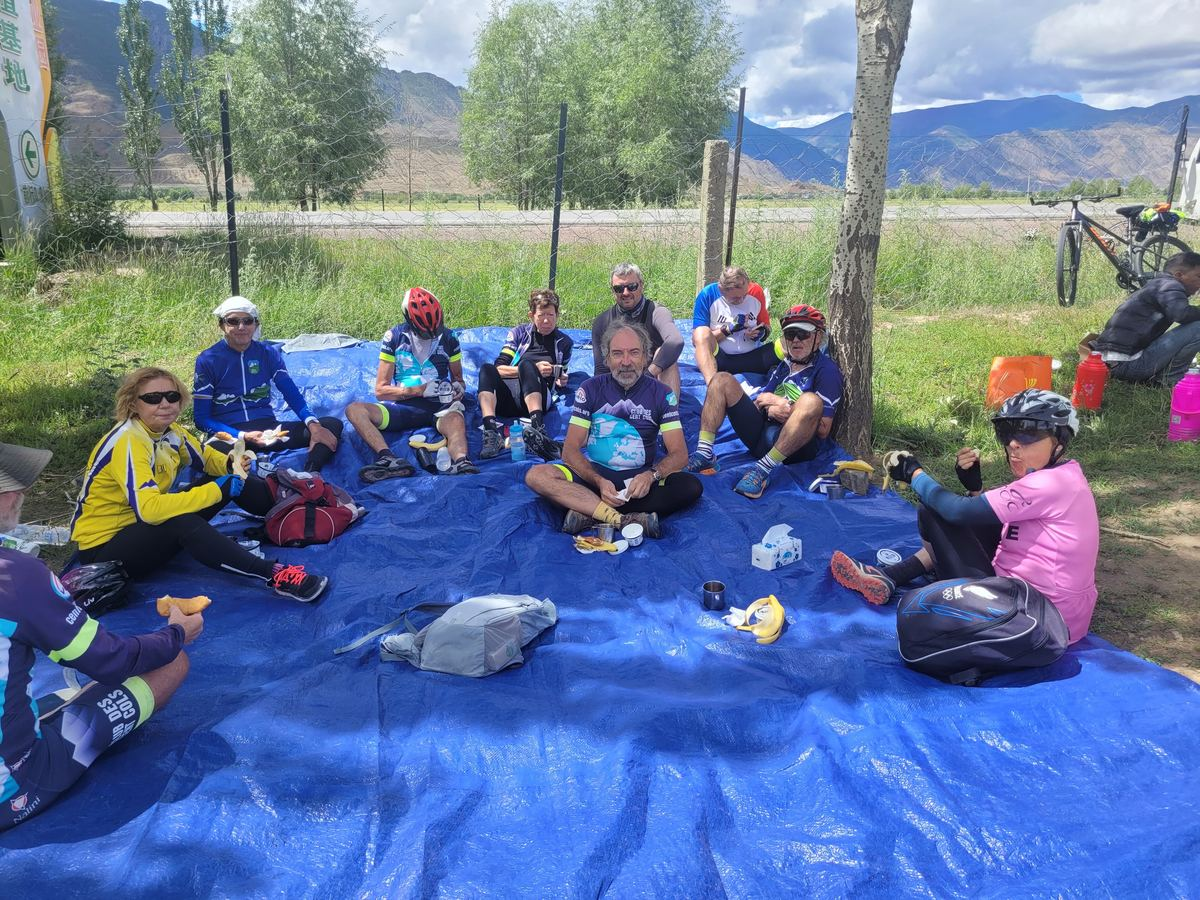
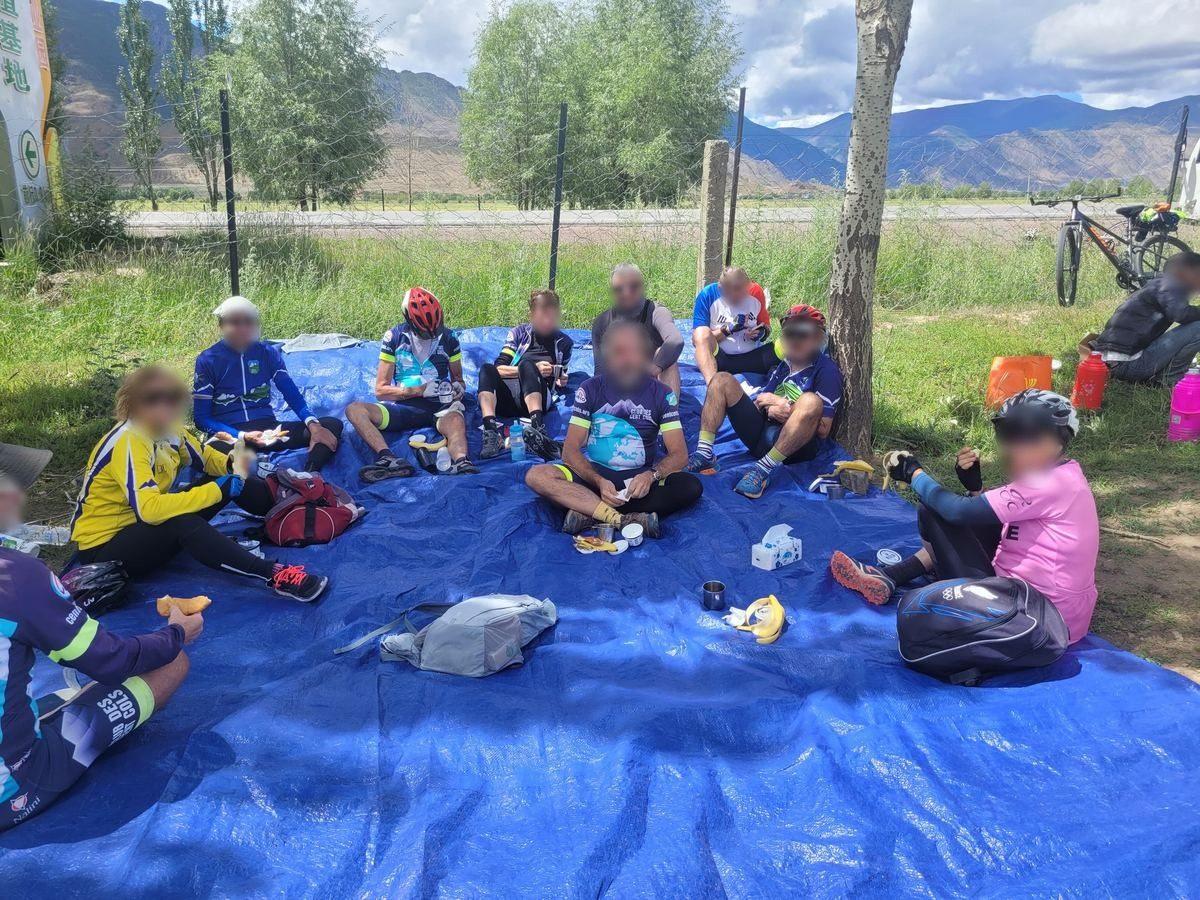
Enrichir la page avec 14 nouvelles photos, visages floutés
- 14 nouvelles photos (lac Yamdrok, Jokhang, Sera, train du Tibet,
  magasin de vélos, camps, stupa de Rongbuk), doublons écartés
- Visages reconnaissables floutés sur toutes les photos, y compris les
  anciennes (sauf le cycliste au poing levé, à la demande)
- Nouvelle galerie « Le groupe 2026 », carrousel renouvelé ; chaque
  photo n'apparaît qu'une fois sur la page

Claude-Session: https://claude.ai/code/session_015UuxWyj5spFd4m22es6sNR

diff --git a/index.html b/index.html
@@ -82,19 +82,12 @@
 <main id="top">
   <div class="gallery" id="gallery">
     <div class="gallery-track" id="galleryTrack">
-      <img fetchpriority="high" src="/images/photo-11.jpg" alt="La face nord de l&#x27;Everest depuis Rongbuk">
-      <img src="/images/photo-01.jpg" alt="Le groupe de cyclistes devant le palais du Potala, à Lhassa">
-      <img src="/images/photo-02.jpg" alt="Le groupe à vélo dans une rue de Lhassa">
-      <img src="/images/photo-03.jpg" alt="Le groupe devant un monastère de Lhassa">
-      <img src="/images/photo-04.jpg" alt="Le lac Yamdrok vu depuis le col de Khampa La">
+      <img fetchpriority="high" src="/images/photo-25.jpg" alt="Sommets enneigés au-dessus du lac Yamdrok">
+      <img src="/images/photo-27.jpg" alt="Les vélos posés au bord du lac Yamdrok">
       <img src="/images/photo-05.jpg" alt="Stupa et glacier au col de Karo La">
-      <img src="/images/photo-06.jpg" alt="Gyantse et sa forteresse perchée">
-      <img src="/images/photo-07.jpg" alt="Le monastère de Tashilhunpo, à Shigatse">
-      <img src="/images/photo-08.jpg" alt="Repas sous la tente au camp">
-      <img src="/images/photo-09.jpg" alt="Pause pique-nique du groupe sur le plateau tibétain">
-      <img src="/images/photo-10.jpg" alt="Repas dans une maison de thé tibétaine">
-      <img src="/images/photo-12.jpg" alt="Stupas et maisons anciennes de la vallée de Katmandou">
-      <img src="/images/photo-13.jpg" alt="Le stupa de Boudhanath, à Katmandou">
+      <img src="/images/photo-30.jpg" alt="La cour et les toits dorés du Jokhang, à Lhassa">
+      <img src="/images/photo-24.jpg" alt="Le lac Yamdrok et ses collines verdoyantes">
+      <img src="/images/photo-26.jpg" alt="Les rives du lac Yamdrok sous un grand ciel bleu">
     </div>
     <div class="gallery-overlay">
       <span class="cap">Région autonome du Tibet → Népal</span>
@@ -133,7 +126,7 @@
       <div class="cap section-eyebrow" style="margin-top:32px;">Points forts</div>
       <h2 class="section-title">Les temps forts du voyage</h2>
       <div class="hl-item">
-        <div class="hl-photo"><img loading="lazy" decoding="async" src="/images/photo-01.jpg" alt="Le groupe de cyclistes devant le palais du Potala, à Lhassa"></div>
+        <div class="hl-photo"><img loading="lazy" decoding="async" src="/images/photo-18.jpg" alt="Le palais du Potala, à Lhassa"></div>
         <div class="hl-body">
           <div class="hl-num">01</div>
           <h3>Lhassa et le palais du Potala</h3>
@@ -141,7 +134,7 @@
         </div>
       </div>
       <div class="hl-item">
-        <div class="hl-photo"><img loading="lazy" decoding="async" src="/images/photo-03.jpg" alt="Le groupe devant un monastère de Lhassa"></div>
+        <div class="hl-photo"><img loading="lazy" decoding="async" src="/images/photo-32.jpg" alt="Moines en assemblée au monastère de Sera"></div>
         <div class="hl-body">
           <div class="hl-num">02</div>
           <h3>Sera, Drepung et le Jokhang</h3>
@@ -149,7 +142,7 @@
         </div>
       </div>
       <div class="hl-item">
-        <div class="hl-photo"><img loading="lazy" decoding="async" src="/images/photo-05.jpg" alt="Stupa et glacier au col de Karo La"></div>
+        <div class="hl-photo"><img loading="lazy" decoding="async" src="/images/photo-21.jpg" alt="Cyclistes sous les drapeaux de prière d&#x27;un col"></div>
         <div class="hl-body">
           <div class="hl-num">03</div>
           <h3>Les cols du toit du monde</h3>
@@ -173,7 +166,7 @@
         </div>
       </div>
       <div class="hl-item">
-        <div class="hl-photo"><img loading="lazy" decoding="async" src="/images/photo-13.jpg" alt="Le stupa de Boudhanath, à Katmandou"></div>
+        <div class="hl-photo"><img loading="lazy" decoding="async" src="/images/photo-12.jpg" alt="Stupas et maisons anciennes de la vallée de Katmandou"></div>
         <div class="hl-body">
           <div class="hl-num">06</div>
           <h3>Katmandou et la vallée népalaise</h3>
@@ -183,6 +176,22 @@
       <div class="pillar-card" style="margin-top:24px;border-left:3px solid var(--red);">
         <h3>Acclimatation à l&#x27;altitude indispensable</h3>
         <p>Ce voyage commence haut et monte vite : une douzaine de jours de vélo entre 3 400 et plus de 5 200 m, avec des étapes pouvant dépasser 120 km et 1 300 m de dénivelé positif. Une bonne acclimatation est essentielle : les premiers jours (Xining, puis Lhassa) permettent une montée progressive avant les cols du plateau, et une bouteille d&#x27;oxygène de secours fait partie de l&#x27;équipement du voyage. Comme pour nos autres itinéraires en très haute altitude, nous pouvons vous aider à préparer votre acclimatation avant le départ.</p>
+      </div>
+    </div>
+  </section>
+
+  <section id="photos">
+    <div class="wrap-narrow">
+      <div class="cap section-eyebrow">En images</div>
+      <h2 class="section-title">Le groupe 2026, de Lhassa au lac Yamdrok</h2>
+      <p style="color:var(--muted);font-size:16px;max-width:60ch;margin-bottom:22px;">Quelques moments du premier voyage, en 2026 : préparation des vélos, visites de Lhassa, pauses au bord du lac Yamdrok et vie de camp.</p>
+      <div class="photo-grid">
+        <figure><img loading="lazy" decoding="async" src="/images/photo-28.jpg" alt="Un cycliste, poing levé, au col au-dessus du lac Yamdrok"><figcaption>Un cycliste, poing levé, au col au-dessus du lac Yamdrok</figcaption></figure>
+        <figure><img loading="lazy" decoding="async" src="/images/photo-01.jpg" alt="Le groupe de cyclistes devant le palais du Potala, à Lhassa"><figcaption>Le groupe de cyclistes devant le palais du Potala, à Lhassa</figcaption></figure>
+        <figure><img loading="lazy" decoding="async" src="/images/photo-37.jpg" alt="Le groupe dans la cour du palais du Potala"><figcaption>Le groupe dans la cour du palais du Potala</figcaption></figure>
+        <figure><img loading="lazy" decoding="async" src="/images/photo-03.jpg" alt="Le groupe devant un monastère de Lhassa"><figcaption>Le groupe devant un monastère de Lhassa</figcaption></figure>
+        <figure><img loading="lazy" decoding="async" src="/images/photo-36.jpg" alt="Le groupe à l&#x27;entrée du monastère de Sera"><figcaption>Le groupe à l&#x27;entrée du monastère de Sera</figcaption></figure>
+        <figure><img loading="lazy" decoding="async" src="/images/photo-17.jpg" alt="À bord du train Xining–Lhassa, face au plateau"><figcaption>À bord du train Xining–Lhassa, face au plateau</figcaption></figure>
       </div>
     </div>
   </section>
@@ -244,7 +253,7 @@
         </div>
       </div>
       <div class="day-card">
-        <div class="day-photo"><img loading="lazy" decoding="async" src="/images/photo-16.jpg" alt="Sommets enneigés du plateau tibétain vus du train"></div>
+        <div class="day-photo"><img loading="lazy" decoding="async" src="/images/photo-35.jpg" alt="Déjeuner au wagon-restaurant du train du Tibet"></div>
         <div>
           <div class="day-num">JOUR 2</div>
           <h3>Xining → Lhassa</h3>
@@ -256,7 +265,7 @@
         </div>
       </div>
       <div class="day-card">
-        <div class="day-photo"><img loading="lazy" decoding="async" src="/images/photo-17.jpg" alt="À bord du train Xining–Lhassa, face au plateau"></div>
+        <div class="day-photo"><img loading="lazy" decoding="async" src="/images/photo-16.jpg" alt="Sommets enneigés du plateau tibétain vus du train"></div>
         <div>
           <div class="day-num">JOUR 3</div>
           <h3>Arrivée à Lhassa (3 835 m)</h3>
@@ -267,7 +276,7 @@
         </div>
       </div>
       <div class="day-card">
-        <div class="day-photo"><img loading="lazy" decoding="async" src="/images/photo-02.jpg" alt="Le groupe à vélo dans une rue de Lhassa"></div>
+        <div class="day-photo"><img loading="lazy" decoding="async" src="/images/photo-33.jpg" alt="Préparation des vélos dans un magasin de Lhassa"></div>
         <div>
           <div class="day-num">JOUR 4</div>
           <h3>Lhassa à vélo</h3>
@@ -278,7 +287,7 @@
         </div>
       </div>
       <div class="day-card">
-        <div class="day-photo"><img loading="lazy" decoding="async" src="/images/photo-18.jpg" alt="Le palais du Potala, à Lhassa"></div>
+        <div class="day-photo"><img loading="lazy" decoding="async" src="/images/photo-31.jpg" alt="Pèlerins en prosternation devant le Jokhang"></div>
         <div>
           <div class="day-num">JOUR 5</div>
           <h3>Lhassa</h3>
@@ -289,7 +298,7 @@
         </div>
       </div>
       <div class="day-card">
-        <div class="day-photo"><img loading="lazy" decoding="async" src="/images/photo-08.jpg" alt="Repas sous la tente au camp"></div>
+        <div class="day-photo"><img loading="lazy" decoding="async" src="/images/photo-02.jpg" alt="Le groupe à vélo dans une rue de Lhassa"></div>
         <div>
           <div class="day-num">JOUR 6</div>
           <h3>Lhassa → Quxu (3 600 m)</h3>
@@ -341,7 +350,7 @@
         </div>
       </div>
       <div class="day-card">
-        <div class="day-photo"><img loading="lazy" decoding="async" src="/images/photo-09.jpg" alt="Pause pique-nique du groupe sur le plateau tibétain"></div>
+        <div class="day-photo"><img loading="lazy" decoding="async" src="/images/photo-29.jpg" alt="Repas du groupe sous la tente du camp"></div>
         <div>
           <div class="day-num">JOUR 10</div>
           <h3>Shigatsé → Jingdingzhen (3 905 m)</h3>
@@ -367,7 +376,7 @@
         </div>
       </div>
       <div class="day-card">
-        <div class="day-photo"><img loading="lazy" decoding="async" src="/images/photo-10.jpg" alt="Repas dans une maison de thé tibétaine"></div>
+        <div class="day-photo"><img loading="lazy" decoding="async" src="/images/photo-22.jpg" alt="La route du plateau entre deux collines"></div>
         <div>
           <div class="day-num">JOUR 12</div>
           <h3>Lhatsé → Shegar (4 320 m)</h3>
@@ -380,7 +389,7 @@
         </div>
       </div>
       <div class="day-card">
-        <div class="day-photo"><img loading="lazy" decoding="async" src="/images/photo-11.jpg" alt="La face nord de l&#x27;Everest depuis Rongbuk"></div>
+        <div class="day-photo"><img loading="lazy" decoding="async" src="/images/photo-34.jpg" alt="Stupa du monastère de Rongbuk devant la face nord de l&#x27;Everest"></div>
         <div>
           <div class="day-num">JOUR 13</div>
           <h3>Shegar → Tashi Dzom → Rongbuk (5 000 m)</h3>
@@ -407,7 +416,7 @@
         </div>
       </div>
       <div class="day-card">
-        <div class="day-photo"><img loading="lazy" decoding="async" src="/images/photo-21.jpg" alt="Cyclistes sous les drapeaux de prière d&#x27;un col"></div>
+        <div class="day-photo"><img loading="lazy" decoding="async" src="/images/photo-09.jpg" alt="Pause pique-nique du groupe sur le plateau tibétain"></div>
         <div>
           <div class="day-num">JOUR 15</div>
           <h3>Tingri → Nyalam Tongla (4 800 m)</h3>
@@ -420,7 +429,7 @@
         </div>
       </div>
       <div class="day-card">
-        <div class="day-photo"><img loading="lazy" decoding="async" src="/images/photo-22.jpg" alt="La route du plateau entre deux collines"></div>
+        <div class="day-photo"><img loading="lazy" decoding="async" src="/images/photo-10.jpg" alt="Repas dans une maison de thé tibétaine"></div>
         <div>
           <div class="day-num">JOUR 16</div>
           <h3>Nyalam Tongla → Nyalam (3 400 m)</h3>

diff --git a/en/index.html b/en/index.html
@@ -82,19 +82,12 @@
 <main id="top">
   <div class="gallery" id="gallery">
     <div class="gallery-track" id="galleryTrack">
-      <img fetchpriority="high" src="/images/photo-11.jpg" alt="Everest&#x27;s north face from Rongbuk">
-      <img src="/images/photo-01.jpg" alt="The cycling group in front of the Potala Palace, Lhasa">
-      <img src="/images/photo-02.jpg" alt="The group on their bikes in a Lhasa street">
-      <img src="/images/photo-03.jpg" alt="The group in front of a monastery in Lhasa">
-      <img src="/images/photo-04.jpg" alt="Yamdrok Lake seen from Khampa La pass">
+      <img fetchpriority="high" src="/images/photo-25.jpg" alt="Snow peaks above Yamdrok Lake">
+      <img src="/images/photo-27.jpg" alt="Bikes laid down by Yamdrok Lake">
       <img src="/images/photo-05.jpg" alt="Stupa and glacier at Karo La pass">
-      <img src="/images/photo-06.jpg" alt="Gyantse and its hilltop fortress">
-      <img src="/images/photo-07.jpg" alt="Tashilhunpo Monastery, Shigatse">
-      <img src="/images/photo-08.jpg" alt="Dinner in the camp tent">
-      <img src="/images/photo-09.jpg" alt="Picnic break on the Tibetan plateau">
-      <img src="/images/photo-10.jpg" alt="Lunch in a Tibetan teahouse">
-      <img src="/images/photo-12.jpg" alt="Stupas and old houses in the Kathmandu valley">
-      <img src="/images/photo-13.jpg" alt="Boudhanath stupa, Kathmandu">
+      <img src="/images/photo-30.jpg" alt="The courtyard and golden roofs of the Jokhang, Lhasa">
+      <img src="/images/photo-24.jpg" alt="Yamdrok Lake and its green hills">
+      <img src="/images/photo-26.jpg" alt="The shores of Yamdrok Lake under a big blue sky">
     </div>
     <div class="gallery-overlay">
       <span class="cap">Tibet Autonomous Region → Nepal</span>
@@ -133,7 +126,7 @@
       <div class="cap section-eyebrow" style="margin-top:32px;">Highlights</div>
       <h2 class="section-title">Trip Highlights</h2>
       <div class="hl-item">
-        <div class="hl-photo"><img loading="lazy" decoding="async" src="/images/photo-01.jpg" alt="The cycling group in front of the Potala Palace, Lhasa"></div>
+        <div class="hl-photo"><img loading="lazy" decoding="async" src="/images/photo-18.jpg" alt="The Potala Palace, Lhasa"></div>
         <div class="hl-body">
           <div class="hl-num">01</div>
           <h3>Lhasa and the Potala Palace</h3>
@@ -141,7 +134,7 @@
         </div>
       </div>
       <div class="hl-item">
-        <div class="hl-photo"><img loading="lazy" decoding="async" src="/images/photo-03.jpg" alt="The group in front of a monastery in Lhasa"></div>
+        <div class="hl-photo"><img loading="lazy" decoding="async" src="/images/photo-32.jpg" alt="Monks gathered at Sera Monastery"></div>
         <div class="hl-body">
           <div class="hl-num">02</div>
           <h3>Sera, Drepung and Jokhang</h3>
@@ -149,7 +142,7 @@
         </div>
       </div>
       <div class="hl-item">
-        <div class="hl-photo"><img loading="lazy" decoding="async" src="/images/photo-05.jpg" alt="Stupa and glacier at Karo La pass"></div>
+        <div class="hl-photo"><img loading="lazy" decoding="async" src="/images/photo-21.jpg" alt="Riders under prayer flags at a pass"></div>
         <div class="hl-body">
           <div class="hl-num">03</div>
           <h3>The passes of the roof of the world</h3>
@@ -173,7 +166,7 @@
         </div>
       </div>
       <div class="hl-item">
-        <div class="hl-photo"><img loading="lazy" decoding="async" src="/images/photo-13.jpg" alt="Boudhanath stupa, Kathmandu"></div>
+        <div class="hl-photo"><img loading="lazy" decoding="async" src="/images/photo-12.jpg" alt="Stupas and old houses in the Kathmandu valley"></div>
         <div class="hl-body">
           <div class="hl-num">06</div>
           <h3>Kathmandu and the Nepalese valley</h3>
@@ -183,6 +176,22 @@
       <div class="pillar-card" style="margin-top:24px;border-left:3px solid var(--red);">
         <h3>Altitude acclimatisation required beforehand</h3>
         <p>This trip starts high and climbs fast: around twelve riding days between 3,400 and over 5,200m, with stages that can exceed 120km and 1,300m of ascent. Good acclimatisation is essential — the first days (Xining, then Lhasa) allow a gentle climb before the passes of the plateau, and a spare oxygen bottle is carried as part of the trip&#x27;s equipment. As with our other very high-altitude routes, we can help you prepare your acclimatisation before departure.</p>
+      </div>
+    </div>
+  </section>
+
+  <section id="photos">
+    <div class="wrap-narrow">
+      <div class="cap section-eyebrow">In Pictures</div>
+      <h2 class="section-title">The 2026 group, from Lhasa to Yamdrok Lake</h2>
+      <p style="color:var(--muted);font-size:16px;max-width:60ch;margin-bottom:22px;">A few moments from the first trip, in 2026: getting the bikes ready, visiting Lhasa, breaks by Yamdrok Lake and camp life.</p>
+      <div class="photo-grid">
+        <figure><img loading="lazy" decoding="async" src="/images/photo-28.jpg" alt="A rider, fist raised, at the pass above Yamdrok Lake"><figcaption>A rider, fist raised, at the pass above Yamdrok Lake</figcaption></figure>
+        <figure><img loading="lazy" decoding="async" src="/images/photo-01.jpg" alt="The cycling group in front of the Potala Palace, Lhasa"><figcaption>The cycling group in front of the Potala Palace, Lhasa</figcaption></figure>
+        <figure><img loading="lazy" decoding="async" src="/images/photo-37.jpg" alt="The group in the courtyard of the Potala Palace"><figcaption>The group in the courtyard of the Potala Palace</figcaption></figure>
+        <figure><img loading="lazy" decoding="async" src="/images/photo-03.jpg" alt="The group in front of a monastery in Lhasa"><figcaption>The group in front of a monastery in Lhasa</figcaption></figure>
+        <figure><img loading="lazy" decoding="async" src="/images/photo-36.jpg" alt="The group at the entrance of Sera Monastery"><figcaption>The group at the entrance of Sera Monastery</figcaption></figure>
+        <figure><img loading="lazy" decoding="async" src="/images/photo-17.jpg" alt="On board the Xining–Lhasa train"><figcaption>On board the Xining–Lhasa train</figcaption></figure>
       </div>
     </div>
   </section>
@@ -244,7 +253,7 @@
         </div>
       </div>
       <div class="day-card">
-        <div class="day-photo"><img loading="lazy" decoding="async" src="/images/photo-16.jpg" alt="Snow peaks of the Tibetan plateau seen from the train"></div>
+        <div class="day-photo"><img loading="lazy" decoding="async" src="/images/photo-35.jpg" alt="Lunch in the dining car of the Tibet train"></div>
         <div>
           <div class="day-num">DAY 2</div>
           <h3>Xining → Lhasa</h3>
@@ -256,7 +265,7 @@
         </div>
       </div>
       <div class="day-card">
-        <div class="day-photo"><img loading="lazy" decoding="async" src="/images/photo-17.jpg" alt="On board the Xining–Lhasa train"></div>
+        <div class="day-photo"><img loading="lazy" decoding="async" src="/images/photo-16.jpg" alt="Snow peaks of the Tibetan plateau seen from the train"></div>
         <div>
           <div class="day-num">DAY 3</div>
           <h3>Arrival in Lhasa (3835m)</h3>
@@ -267,7 +276,7 @@
         </div>
       </div>
       <div class="day-card">
-        <div class="day-photo"><img loading="lazy" decoding="async" src="/images/photo-02.jpg" alt="The group on their bikes in a Lhasa street"></div>
+        <div class="day-photo"><img loading="lazy" decoding="async" src="/images/photo-33.jpg" alt="Getting the bikes ready at a Lhasa bike shop"></div>
         <div>
           <div class="day-num">DAY 4</div>
           <h3>Lhasa by bike</h3>
@@ -278,7 +287,7 @@
         </div>
       </div>
       <div class="day-card">
-        <div class="day-photo"><img loading="lazy" decoding="async" src="/images/photo-18.jpg" alt="The Potala Palace, Lhasa"></div>
+        <div class="day-photo"><img loading="lazy" decoding="async" src="/images/photo-31.jpg" alt="Pilgrims prostrating at the Jokhang"></div>
         <div>
           <div class="day-num">DAY 5</div>
           <h3>Lhasa</h3>
@@ -289,7 +298,7 @@
         </div>
       </div>
       <div class="day-card">
-        <div class="day-photo"><img loading="lazy" decoding="async" src="/images/photo-08.jpg" alt="Dinner in the camp tent"></div>
+        <div class="day-photo"><img loading="lazy" decoding="async" src="/images/photo-02.jpg" alt="The group on their bikes in a Lhasa street"></div>
         <div>
           <div class="day-num">DAY 6</div>
           <h3>Lhasa → Quxu (3600m)</h3>
@@ -341,7 +350,7 @@
         </div>
       </div>
       <div class="day-card">
-        <div class="day-photo"><img loading="lazy" decoding="async" src="/images/photo-09.jpg" alt="Picnic break on the Tibetan plateau"></div>
+        <div class="day-photo"><img loading="lazy" decoding="async" src="/images/photo-29.jpg" alt="Group meal in the camp tent"></div>
         <div>
           <div class="day-num">DAY 10</div>
           <h3>Shigatse → Jingdingzhen (3905m)</h3>
@@ -367,7 +376,7 @@
         </div>
       </div>
       <div class="day-card">
-        <div class="day-photo"><img loading="lazy" decoding="async" src="/images/photo-10.jpg" alt="Lunch in a Tibetan teahouse"></div>
+        <div class="day-photo"><img loading="lazy" decoding="async" src="/images/photo-22.jpg" alt="The plateau road between two hills"></div>
         <div>
           <div class="day-num">DAY 12</div>
           <h3>Lhatse → Shegar (4320m)</h3>
@@ -380,7 +389,7 @@
         </div>
       </div>
       <div class="day-card">
-        <div class="day-photo"><img loading="lazy" decoding="async" src="/images/photo-11.jpg" alt="Everest&#x27;s north face from Rongbuk"></div>
+        <div class="day-photo"><img loading="lazy" decoding="async" src="/images/photo-34.jpg" alt="Rongbuk Monastery stupa in front of Everest&#x27;s north face"></div>
         <div>
           <div class="day-num">DAY 13</div>
           <h3>Shegar → Tashi Dzom → Rongbuk (5000m)</h3>
@@ -407,7 +416,7 @@
         </div>
       </div>
       <div class="day-card">
-        <div class="day-photo"><img loading="lazy" decoding="async" src="/images/photo-21.jpg" alt="Riders under prayer flags at a pass"></div>
+        <div class="day-photo"><img loading="lazy" decoding="async" src="/images/photo-09.jpg" alt="Picnic break on the Tibetan plateau"></div>
         <div>
           <div class="day-num">DAY 15</div>
           <h3>Tingri → Nyalam Tongla (4800m)</h3>
@@ -420,7 +429,7 @@
         </div>
       </div>
       <div class="day-card">
-        <div class="day-photo"><img loading="lazy" decoding="async" src="/images/photo-22.jpg" alt="The plateau road between two hills"></div>
+        <div class="day-photo"><img loading="lazy" decoding="async" src="/images/photo-10.jpg" alt="Lunch in a Tibetan teahouse"></div>
         <div>
           <div class="day-num">DAY 16</div>
           <h3>Nyalam Tongla → Nyalam (3400m)</h3>

diff --git a/styles.css b/styles.css
@@ -339,3 +339,10 @@ hr.rule{border:none;border-top:1px solid var(--border);margin:0;}
 .trip-price span{font-family:'Noto Sans SC',sans-serif;font-weight:400;font-size:15px;color:var(--muted);}
 .fee-price{font-size:17px;margin-bottom:22px;color:var(--ink);}
 .fee-price b{font-family:'Noto Serif SC',serif;font-size:22px;color:var(--gold);}
+
+/* Galerie photos */
+.photo-grid{display:grid;grid-template-columns:repeat(3,1fr);gap:10px;}
+.photo-grid figure{margin:0;position:relative;overflow:hidden;border-radius:4px;background:#0D1420;}
+.photo-grid img{width:100%;aspect-ratio:4/5;object-fit:cover;display:block;}
+.photo-grid figcaption{position:absolute;left:0;right:0;bottom:0;padding:22px 10px 8px;font-size:12.5px;line-height:1.4;color:#fff;background:linear-gradient(0deg,rgba(6,10,16,.8),transparent);}
+@media (max-width:640px){ .photo-grid{grid-template-columns:repeat(2,1fr);} }

diff --git a/CLAUDE.md b/CLAUDE.md
@@ -15,7 +15,7 @@ Site statique, sans étape de build — dans Cloudflare Pages : *Build command* 
 - `index.html` — page **française** (langue par défaut, `x-default`)
 - `en/index.html` — version anglaise
 - `styles.css` — feuille de style commune (reprise de la page d'origine sur horizonchine.com/chinalosthorizon)
-- `images/` — `photo-01.jpg` à `photo-23.jpg`, `logo.png` (Lost Horizon), QR codes WeChat et WhatsApp ; `favicon*`, `apple-touch-icon.png`, `icon-192.png` — icônes (Everest et drapeaux de prière)
+- `images/` — `photo-01.jpg` à `photo-37.jpg` (chacune utilisée **une seule fois** sur la page), `logo.png` (Lost Horizon), QR codes WeChat et WhatsApp ; `favicon*`, `apple-touch-icon.png`, `icon-192.png` — icônes (Everest et drapeaux de prière)
 - `404.html`, `en/404.html` — pages « introuvable » (chemins absolus obligatoires)
 - `sitemap.xml`, `robots.txt` — SEO
 - `_redirects` — redirige `/CLAUDE.md` et `/README.md` vers l'accueil pour ne pas les exposer
@@ -30,5 +30,7 @@ Site statique, sans étape de build — dans Cloudflare Pages : *Build command* 
 - Contact : téléphone de Mathieu Le Serre +33 6 27 29 79 77, e-mail info@chinalosthorizon.com, QR codes WeChat et WhatsApp.
 - Itinéraire jour par jour (20 jours) : rendez-vous à **Xining** (J1), fin à **Katmandou** (J20). Les vols internationaux ne sont **pas** inclus.
 - Toute modification de contenu doit être reportée dans les 2 langues (FR et EN), y compris le résumé jour par jour du profil d'altitude, les balises `canonical`, `hreflang`, Open Graph/Twitter et le JSON-LD de l'en-tête.
+- **Visages floutés** sur toutes les photos où ils sont reconnaissables (voyageurs, moines, passants), sauf `photo-28.jpg` (cycliste poing levé, accord du propriétaire). Toute nouvelle photo avec des visages nets doit être floutée avant d'être ajoutée. Les maillots « Club des Cent Cols » visibles sur les photos ne posent pas de problème.
+- Galerie « Le groupe 2026 » (section `#photos`).
 - Images en `loading="lazy"`, sauf celles du carrousel d'en-tête (la première en `fetchpriority="high"`).
 - Pas de formulaire : contact par e-mail (info@chinalosthorizon.com), WeChat et WhatsApp (QR codes).
